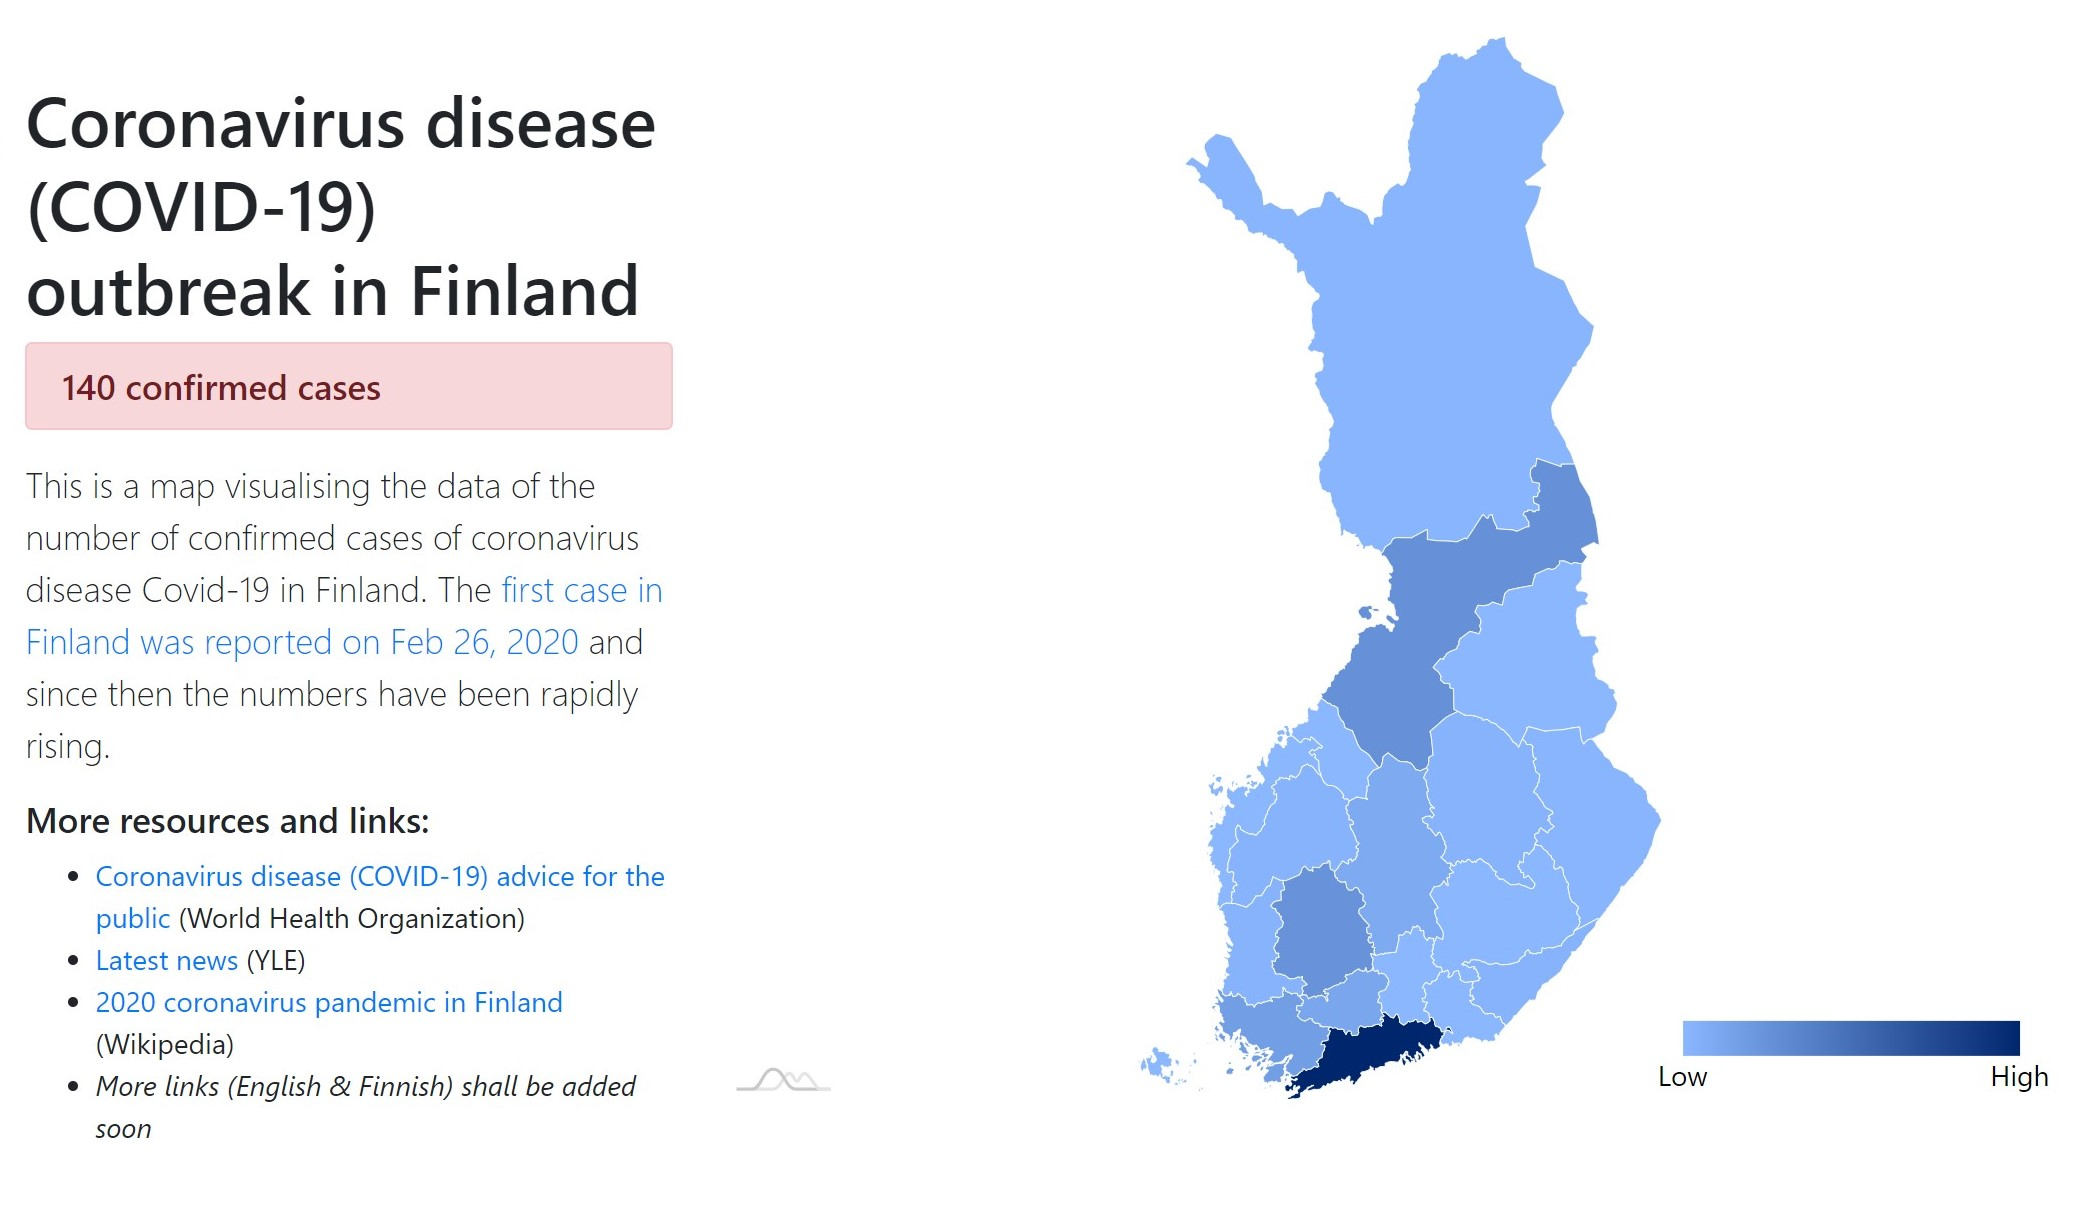
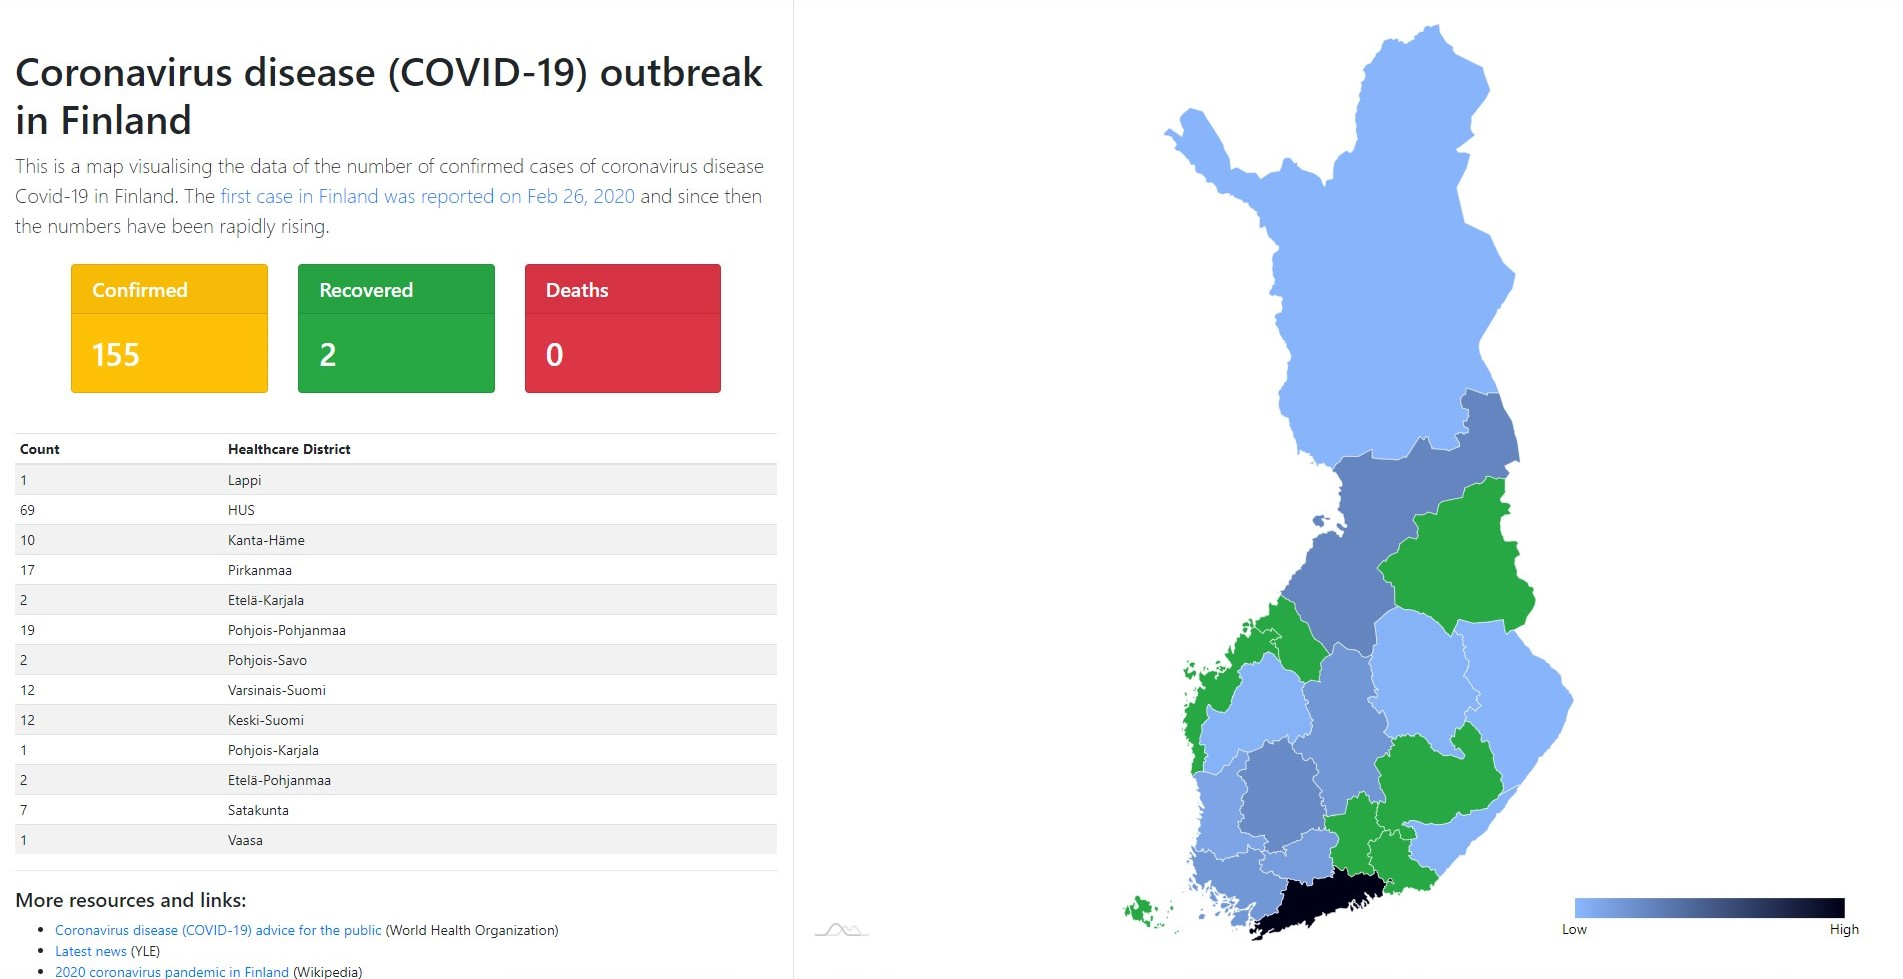
Updating default image

Changed region(s): [[0.0, 0.0613, 0.403, 1.0], [0.5271, 0.0306, 0.9921, 0.9499], [0.186, 0.9499, 0.217, 0.9806]]

diff --git a/index.html b/index.html
@@ -19,7 +19,7 @@
     <meta property="og:url" content="https://finland-coronavirus-map.netlify.com/" />
     <meta property="og:title" content="Coronavirus disease (COVID-19) outbreak in Finland" />
     <meta property="og:description" content="A map showing the current outbreak of the Coronavirus disease (COVID-19) in Finland." />
-    <meta property="og:image" content="https://i.imgur.com/W8p6Cfq.jpg" />
+    <meta property="og:image" content="https://i.imgur.com/gfXwKPp.jpg" />
 
     <script async src="https://www.googletagmanager.com/gtag/js?id=UA-41941997-2"></script>
     <script>
